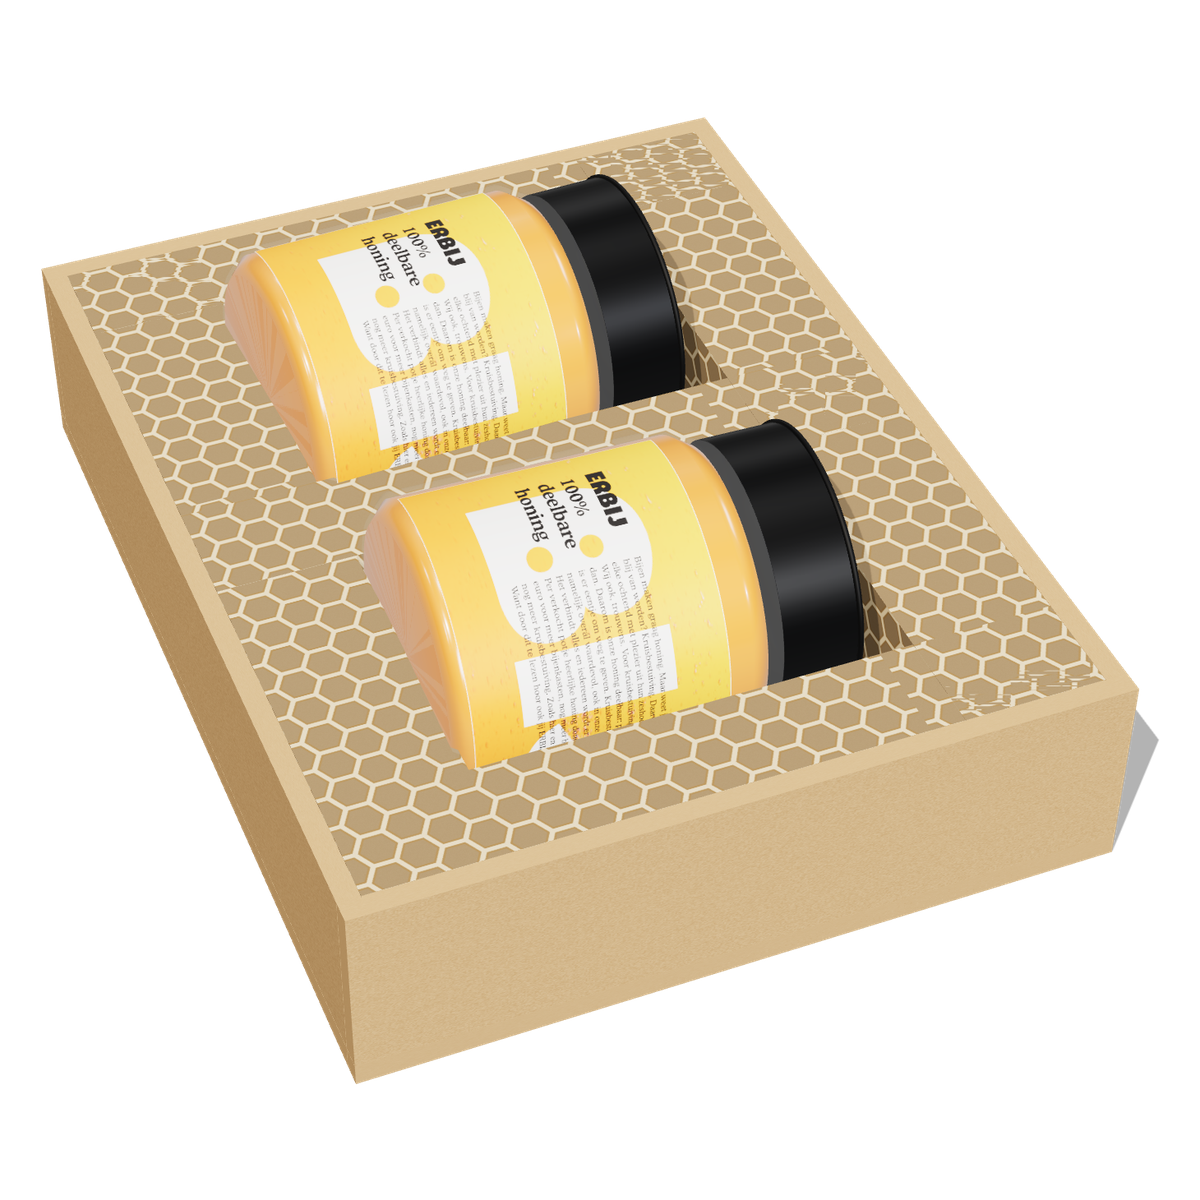
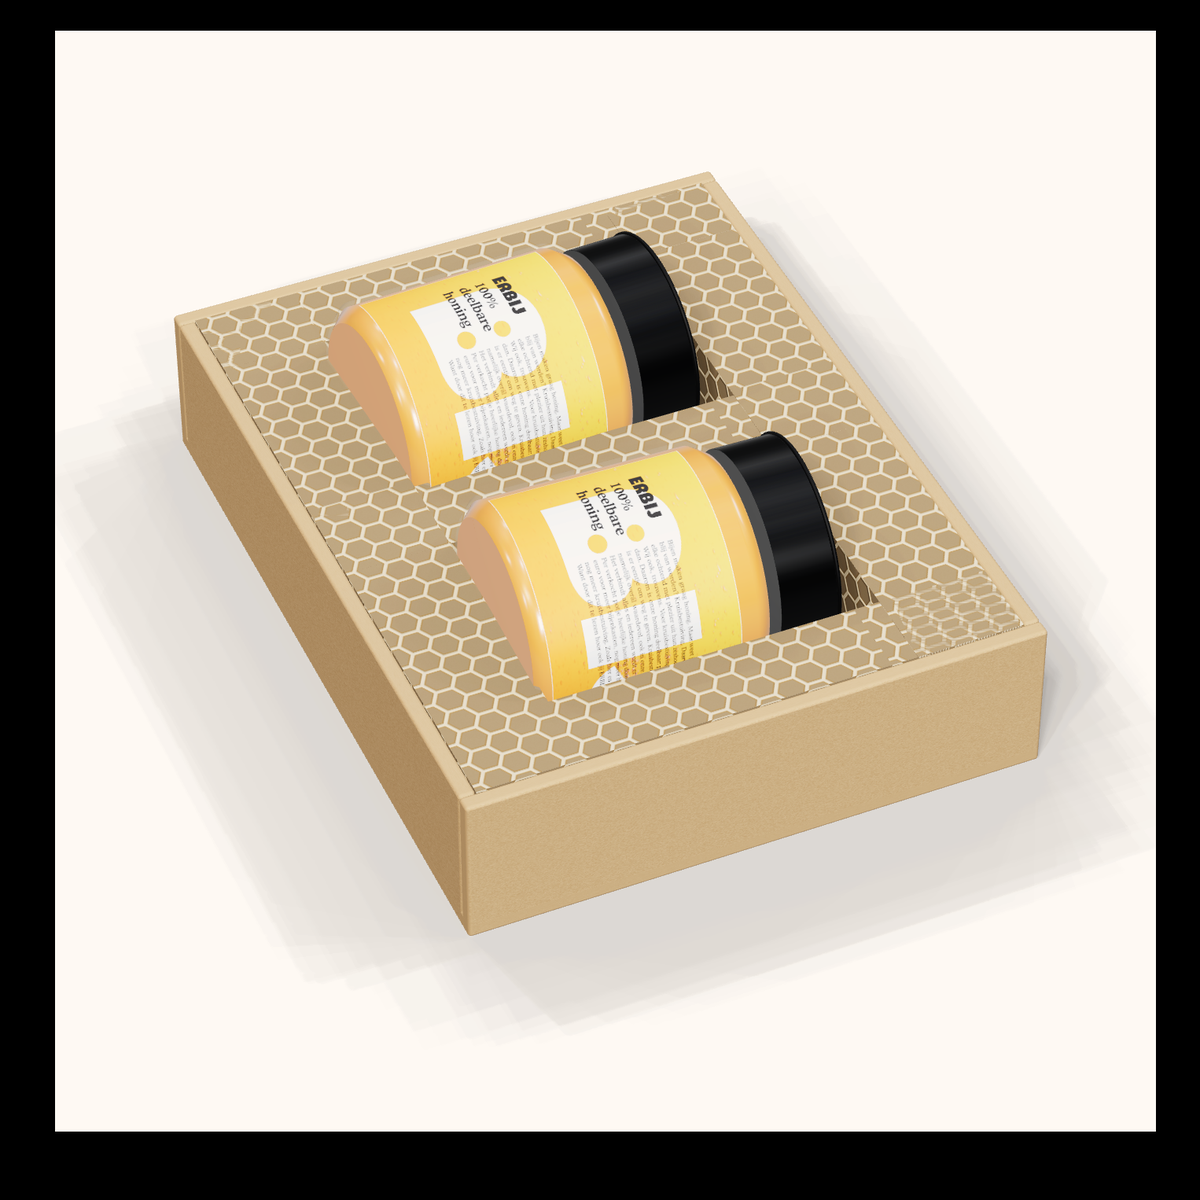
ERBIJ: fotorealistischer cadeaubeeld en levering in het eerste kwartaal van 2027

diff --git a/scripts/cadeaubeeld-3d/scene.html b/scripts/cadeaubeeld-3d/scene.html
@@ -2,23 +2,25 @@
 <script type="importmap">{"imports":{"three":"./node_modules/three/build/three.module.js","three/addons/":"./node_modules/three/examples/jsm/"}}</script>
 <script type="module">
 import * as THREE from 'three';
+import {RoundedBoxGeometry} from 'three/addons/geometries/RoundedBoxGeometry.js';
 import {RoomEnvironment} from 'three/addons/environments/RoomEnvironment.js';
-const W=1600,H=1600;
-const r=new THREE.WebGLRenderer({antialias:true,alpha:true,preserveDrawingBuffer:true});
-r.setSize(W,H);r.setPixelRatio(1);r.setClearColor(0x000000,0);
+const W=1400,H=1400;
+const r=new THREE.WebGLRenderer({antialias:true,alpha:false,preserveDrawingBuffer:true});
+r.setSize(W,H);r.setPixelRatio(1);r.setClearColor(0xfef9f3,1);
 r.shadowMap.enabled=true;r.shadowMap.type=THREE.PCFSoftShadowMap;
 r.toneMapping=THREE.ACESFilmicToneMapping;r.toneMappingExposure=1.05;r.outputColorSpace=THREE.SRGBColorSpace;
 document.body.appendChild(r.domElement);
 const scene=new THREE.Scene();
 const pm=new THREE.PMREMGenerator(r);
 scene.environment=pm.fromScene(new RoomEnvironment(),0.04).texture;
-scene.environmentIntensity=0.55;
-const cam=new THREE.PerspectiveCamera(23,1,1,200);
-cam.position.set(-18,46,46);cam.lookAt(0,1.2,0.8);
-const sun=new THREE.DirectionalLight(0xfff1dc,2.4);sun.position.set(-14,26,14);sun.castShadow=true;
-sun.shadow.mapSize.set(4096,4096);Object.assign(sun.shadow.camera,{left:-22,right:22,top:22,bottom:-22,near:1,far:90});sun.target.position.set(0,0,0);scene.add(sun.target);
+scene.environmentIntensity=0.5;
+const cam=new THREE.PerspectiveCamera(12,1,1,400);
+cam.position.set(-40,92,92);cam.lookAt(0,1.0,0.6);
+const sun=new THREE.DirectionalLight(0xfff1dc,1.8);sun.position.set(-14,26,14);sun.castShadow=true;
+sun.shadow.mapSize.set(3072,3072);Object.assign(sun.shadow.camera,{left:-40,right:40,top:40,bottom:-40,near:1,far:120});sun.target.position.set(0,0,0);scene.add(sun.target);
 sun.shadow.radius=6;sun.shadow.bias=-0.0004;scene.add(sun);
-const fill=new THREE.DirectionalLight(0xdfe8ff,0.5);fill.position.set(14,10,18);scene.add(fill);
+const sky=new THREE.DirectionalLight(0xe8eeff,1.8);sky.castShadow=true;sky.shadow.mapSize.set(3072,3072);
+Object.assign(sky.shadow.camera,{left:-40,right:40,top:40,bottom:-40,near:1,far:160});sky.shadow.radius=3;sky.shadow.bias=-0.0005;scene.add(sky);scene.add(sky.target);
 const load=u=>new Promise(res=>new THREE.TextureLoader().load(u,t=>{t.colorSpace=THREE.SRGBColorSpace;t.anisotropy=16;res(t)}));
 const [etiket,deksel]=await Promise.all([load('etiket.png'),load('deksel-rond.png')]);
 // papier/karton texturen
@@ -33,7 +35,7 @@ const hex=noiseTex('#d8c19a',10,1024,(g,w)=>{const s=40,h=s*Math.sqrt(3)/2;g.str
 hex.repeat.set(1,1);
 const matK=new THREE.MeshStandardMaterial({map:kraft,roughness:.92});
 const matI=new THREE.MeshStandardMaterial({map:inner,roughness:.95});
-const box=(w,h,d,m,x,y,z)=>{const b=new THREE.Mesh(new THREE.BoxGeometry(w,h,d),m);b.position.set(x,y,z);b.castShadow=b.receiveShadow=true;scene.add(b);return b};
+const box=(w,h,d,m,x,y,z)=>{const b=new THREE.Mesh(new RoundedBoxGeometry(w,h,d,4,.1),m);b.position.set(x,y,z);b.castShadow=b.receiveShadow=true;scene.add(b);return b};
 // kist
 const IW=14.6,ID=19.2,T=.45,WH=4.4;
 box(IW+2*T,.5,ID+2*T,matK,0,.25,0);
@@ -42,7 +44,7 @@ box(T,WH,ID,matK,-(IW/2+T/2),WH/2,0); box(T,WH,ID,matK,IW/2+T/2,WH/2,0);
 // afgeronde rand: lichte bovenrand
 const rim=m=>m; 
 // honingraat blokken (zijkant toont cellen via hex-textuur)
-function hc(w,h,d,x,y,z){const mats=[],tex=(rx,ry)=>{const t=hex.clone();t.needsUpdate=true;t.repeat.set(rx,ry);return new THREE.MeshStandardMaterial({map:t,roughness:.9})};
+function hc(w,h,d,x,y,z){const mats=[],tex=(rx,ry)=>{const t=hex.clone();t.needsUpdate=true;t.repeat.set(rx,ry);return new THREE.MeshStandardMaterial({map:t,bumpMap:t,bumpScale:2.2,roughness:.95})};
  const m=[tex(d/11,h/11),tex(d/11,h/11),tex(w/11,d/11),tex(w/11,d/11),tex(w/11,h/11),tex(w/11,h/11)];
  const b=new THREE.Mesh(new THREE.BoxGeometry(w,h,d),m);b.position.set(x,y,z);b.castShadow=b.receiveShadow=true;scene.add(b)}
 const FL=.5,FH=.7; hc(IW,FH,ID,0,FL+FH/2-.0,0);           // bodemplaat
@@ -61,17 +63,17 @@ function jar(z,rot){const g=new THREE.Group();
  // profiel: lathe langs Y, straks naar X gedraaid
  const pts=[[0,-L/2],[R-.35,-L/2],[R,-L/2+.35],[R,L/2-.5],[R-.25,L/2-.1],[R-.45,L/2+.35],[R-.45,L/2+.8],[0,L/2+.8]].map(p=>new THREE.Vector2(p[0],p[1]));
  const body=new THREE.Mesh(new THREE.LatheGeometry(pts,96),glass);body.castShadow=false;
- const honeyPts=pts.map(p=>new THREE.Vector2(Math.max(0,p.x-.12),Math.min(p.y,L/2-.1)));
+ const honeyPts=pts.slice(1).map(p=>new THREE.Vector2(Math.max(0.01,p.x-.12),Math.min(p.y,L/2-.1)));honeyPts.push(new THREE.Vector2(0.01,L/2-.1));
  const hn=new THREE.Mesh(new THREE.LatheGeometry(honeyPts,96),honey);hn.castShadow=true;
  // label
  const lab=new THREE.Mesh(new THREE.CylinderGeometry(R+.02,R+.02,L-1.3,96,1,true,-Math.PI*0.62,Math.PI*1.24),new THREE.MeshStandardMaterial({map:etiket,roughness:.5,side:THREE.DoubleSide}));
  lab.position.y=-.35;
  // deksel
- const lidM=new THREE.MeshStandardMaterial({color:0x0d0e10,roughness:.38,metalness:.35});
+ const lidM=new THREE.MeshStandardMaterial({color:0x0b0c0e,roughness:.28,metalness:.55});
  const lid=new THREE.Mesh(new THREE.CylinderGeometry(R-.38,R-.38,1.55,96),lidM);lid.position.y=L/2+.8+.2;lid.castShadow=true;
  const rimR=new THREE.Mesh(new THREE.TorusGeometry(R-.38,.06,16,96),lidM);rimR.rotation.x=Math.PI/2;rimR.position.y=L/2+.8+.2+.775;
  const cap=new THREE.Mesh(new THREE.CircleGeometry(R-.44,96),new THREE.MeshStandardMaterial({map:deksel,roughness:.42,metalness:.1}));cap.rotation.x=-Math.PI/2;cap.position.y=L/2+.8+.2+.78;
- g.add(body,hn,lab,lid,rimR,cap);
+ const hb=new THREE.Mesh(new THREE.CircleGeometry(R-.47,96),honey);hb.rotation.x=Math.PI/2;hb.position.y=-L/2+.001;g.add(hb);g.add(body,hn,lab,lid,rimR,cap);
  g.rotation.z=-Math.PI/2; // as langs x, deksel naar rechts
  g.rotation.order='ZYX'; g.position.set(-1.25,axis,z);
  g.rotateY(0); const o=new THREE.Group();o.add(g);o.rotation.y=rot;o.position.set(0,0,0);scene.add(o);
@@ -81,5 +83,15 @@ function jar(z,rot){const g=new THREE.Group();
 const j1=jar(zc[0],.04),j2=jar(zc[1],-.03);
 // vloer (alleen schaduw)
 const floor=new THREE.Mesh(new THREE.PlaneGeometry(120,120),new THREE.ShadowMaterial({opacity:.3}));floor.rotation.x=-Math.PI/2;floor.position.y=-.001;floor.receiveShadow=true;scene.add(floor);
-r.render(scene,cam);window.__klaar=true;
+const acc=document.createElement('canvas');acc.width=W;acc.height=H;const ctx=acc.getContext('2d');
+r.domElement.style.display='none';document.body.appendChild(acc);
+const N=160;
+for(let i=0;i<N;i++){
+ const a=Math.random()*Math.PI*2,rr=Math.sqrt(Math.random())*5;
+ sun.position.set(-14+Math.cos(a)*rr,26+Math.sin(a)*rr*.5,14+Math.sin(a)*rr);
+ let u=Math.random(),v=Math.random()*Math.PI*2,y=.35+.65*Math.sqrt(u),rad=Math.sqrt(1-y*y);
+ sky.position.set(Math.cos(v)*rad*60,y*60,Math.sin(v)*rad*60);
+ r.render(scene,cam);ctx.globalAlpha=1/(i+1);ctx.drawImage(r.domElement,0,0);
+}
+window.__klaar=true;
 </script></body></html>

diff --git a/worker/mail.js b/worker/mail.js
@@ -25,7 +25,7 @@ export function bevestigingsMail({ voornaam, aantal }) {
   const html = kader(
     p(`Hoi ${naam},`) +
       p(`Dank je wel. Je bestelling is binnen: ${esc(aantal)} keer twee potjes ERBIJ.`) +
-      p('Ik pak ze zelf in en stuur ze eind november naar je toe. Je hoort van me zodra ze onderweg zijn.') +
+      p('Ik pak ze zelf in en stuur ze in het eerste kwartaal van 2027 naar je toe. Je hoort van me zodra ze onderweg zijn.') +
       p('Eén potje is voor jou. Het andere mag je weggeven aan iemand die het volgens jou verdient. Zonder reden, zonder er iets voor terug te vragen.') +
       p('Vragen? Beantwoord deze mail gewoon. Ik lees alles en antwoord zelf.') +
       p('Raymond') +
@@ -35,7 +35,7 @@ export function bevestigingsMail({ voornaam, aantal }) {
 
 Dank je wel. Je bestelling is binnen: ${aantal} keer twee potjes ERBIJ.
 
-Ik pak ze zelf in en stuur ze eind november naar je toe. Je hoort van me zodra ze onderweg zijn.
+Ik pak ze zelf in en stuur ze in het eerste kwartaal van 2027 naar je toe. Je hoort van me zodra ze onderweg zijn.
 
 Eén potje is voor jou. Het andere mag je weggeven aan iemand die het volgens jou verdient. Zonder reden, zonder er iets voor terug te vragen.
 

diff --git a/src/content/pagina/voorwaarden.md b/src/content/pagina/voorwaarden.md
@@ -24,7 +24,7 @@ Je kiest het aantal sets en rekent af via Stripe. Je kunt betalen met iDEAL of k
 
 ## Levering.
 
-Ik pak elke set zelf in en verstuur hem met PostNL. De levering is gepland voor eind november. Zodra je pakket onderweg is, krijg je een mail, met een trackingcode als die er is. Kan ik het niet halen, dan laat ik dat zo snel mogelijk weten.
+Ik pak elke set zelf in en verstuur hem met PostNL. De levering is gepland voor het eerste kwartaal van 2027. Zodra je pakket onderweg is, krijg je een mail, met een trackingcode als die er is. Kan ik het niet halen, dan laat ik dat zo snel mogelijk weten.
 
 ## Herroepen.
 
